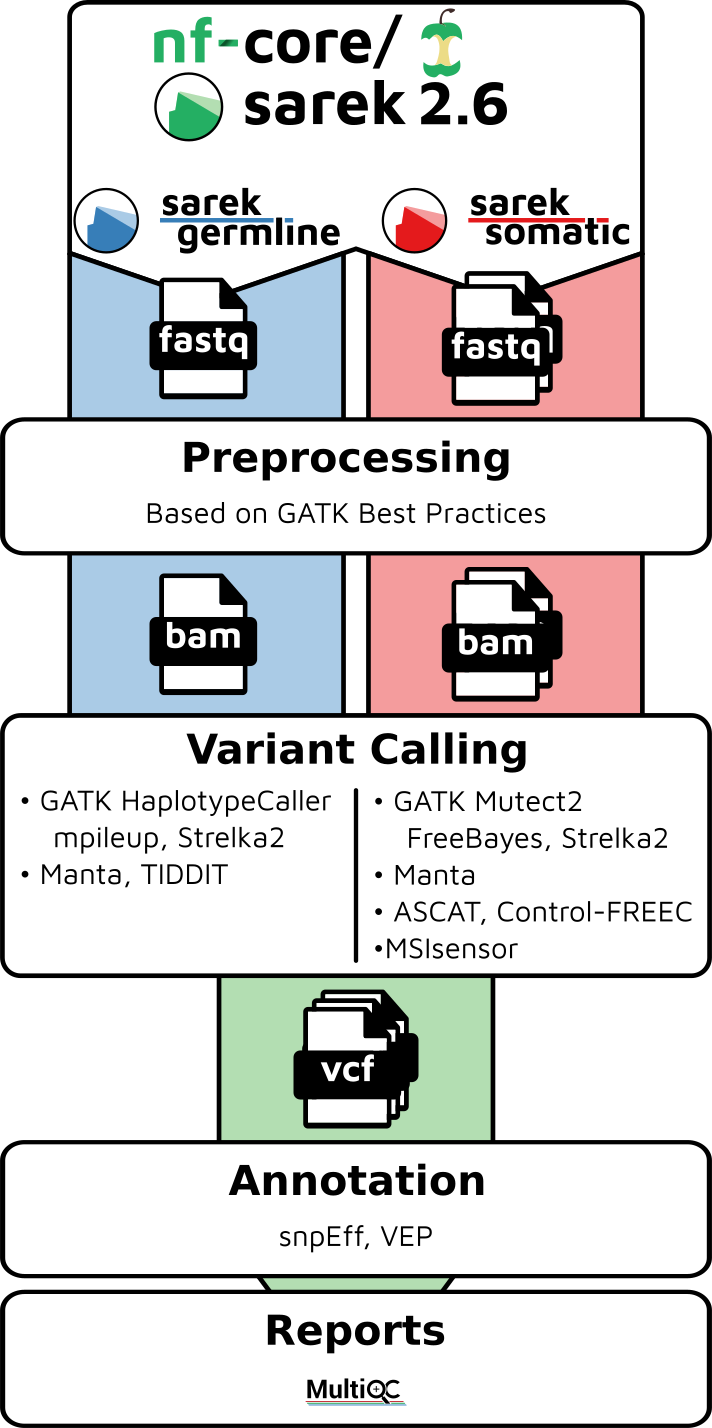
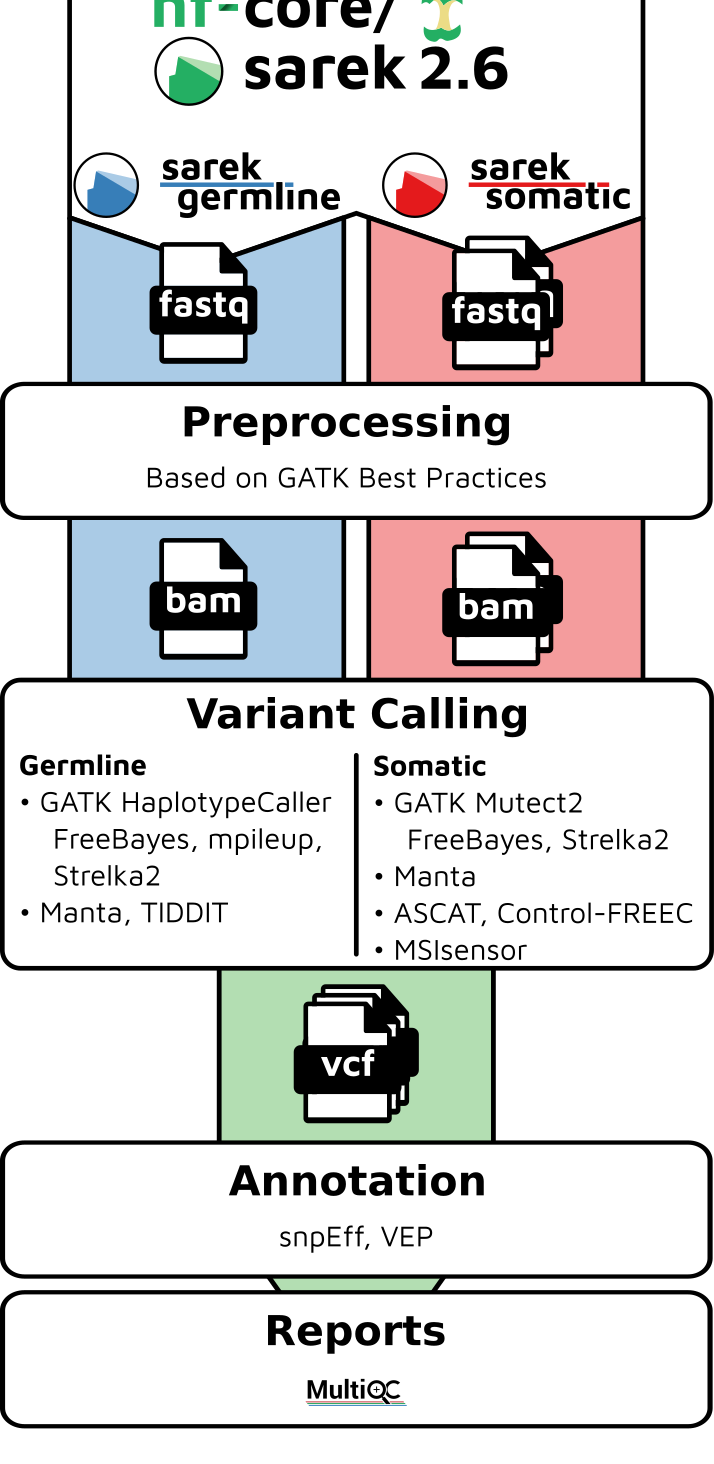
update docs freebayes

diff --git a/docs/output.md b/docs/output.md
@@ -147,10 +147,10 @@ Recalibrated BAM files can also be used as an input to start the Variant Calling
 
 For further reading and documentation see the [FreeBayes manual](https://github.com/ekg/freebayes/blob/master/README.md#user-manual-and-guide).
 
-For a Tumor/Normal pair only:
-**Output directory: `results/VariantCalling/[TUMOR_vs_NORMAL]/FreeBayes`**
+For all samples:
+**Output directory: `results/VariantCalling/[SAMPLE]/FreeBayes`**
 
-- `FreeBayes_[TUMORSAMPLE]_vs_[NORMALSAMPLE].vcf.gz` and `FreeBayes_[TUMORSAMPLE]_vs_[NORMALSAMPLE].vcf.gz.tbi`
+- `FreeBayes_[SAMPLE].vcf.gz` and `FreeBayes_[SAMPLE].vcf.gz.tbi`
   - VCF with Tabix index
 
 #### GATK HaplotypeCaller

diff --git a/docs/variant_calling.md b/docs/variant_calling.md
@@ -11,6 +11,7 @@ You can specify the variant caller to use with the `--tools` parameter (see [usa
 
 Germline variant calling can currently only be performed with the following variant callers:
 
+- FreeBayes
 - HaplotypeCaller
 - Manta
 - mpileup
